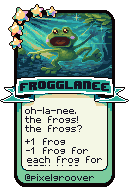
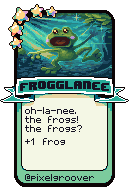
Image Updates
hopefully final

diff --git a/frogs/data/cards.js b/frogs/data/cards.js
@@ -18,7 +18,7 @@ Note if 'NameOfFrog' has a duplicate, it will go to the last duplicate
    'matt': 'mattFdraws',
    'slide': 'came2slide',
    'elena': 'ElenaNazaire',
-   'frogapples': 'frogapples',
+   'frogapples': 'frogapples_',
    'funnyunfunny': 'funnily_unfunny',
    'imaginarymon': 'imaginarymon',
    'instantonion': 'instant_onion',
@@ -30,8 +30,8 @@ Note if 'NameOfFrog' has a duplicate, it will go to the last duplicate
    'pixel': 'pixelgroover',
    'silk': 'silkanide',
    'splishyplash': 'SplishyPlash',
-   'windowkitties': 'windowkitties',
-   'iyfrr': 'iyfrr',
+   'windowkitties': 'window_kitties',
+   'iyfrr': 'iyfias',
    'saltbunny': 'saltiestbunny'
  };
 
@@ -132,6 +132,18 @@ var FROG_CARDS = {
       'name': 'Snack Time',
       'image': 'images/cards/snacktime.png',
       'description': 'mmlemm. +1 snack +20 tummy',
+      'artist': artists.julia,
+    },
+    'snacktime': {
+      'name': 'Dame Da Ne ',
+      'image': 'images/cards/damedane.png',
+      'description': 'baka mitai. +1 sake +3 yakuza',
+      'artist': artists.julia,
+    },
+    'snacktime': {
+      'name': 'Frogelors',
+      'image': 'images/cards/frogelors.png',
+      'description': 'looking for love. +3 hunks +5 romance',
       'artist': artists.julia,
     },
     'thetads': {
@@ -340,7 +352,7 @@ var FROG_CARDS = {
     'business': {
       'name': 'Business Frog',
       'image': 'images/cards/business.png',
-      'description': 'his briefcase is full of swamp water. +1 moustache +5 professionalism',
+      'description': 'his briefcase is full of swamp water. +1 moustache',
       'artist': artists.splishyplash,
     },
     'idol': {
@@ -418,7 +430,7 @@ var FROG_CARDS = {
     'dressupfrog': {
       'name': 'Dress-Up Frog',
       'image': 'images/cards/dressupfrog.png',
-      'description': 'big ol\' dress, little bitty frog. +20 fancy points (exchangable at tea parties)',
+      'description': 'big ol\' dress, little bitty frog. +20 fancy points',
       'artist': artists.saltbunny,
     },
   },
@@ -512,7 +524,7 @@ var FROG_CARDS = {
     'frogglanee': {
       'name': 'Frogglanee',
       'image': 'images/cards/frogglanee.png',
-      'description': 'oh-la-nee, the frogs! the frogs? +1 frog -1 frog for each frog for each frog',
+      'description': 'oh-la-nee, the frogs! the frogs?',
       'artist': artists.pixel,
     },
     'astro': {
@@ -548,7 +560,7 @@ var FROG_CARDS = {
     'hoppily': {
       'name': 'Hoppily Ever After',
       'image': 'images/cards/hoppily.png',
-      'description': 'u may now kiss the frog! +1 slice of cake +100 smiles a day +1 additional slice of cake',
+      'description': 'u may now kiss the frog! +1 slice of cake +100 smiles a day',
       'artist': artists.saltbunny,
     },
 
